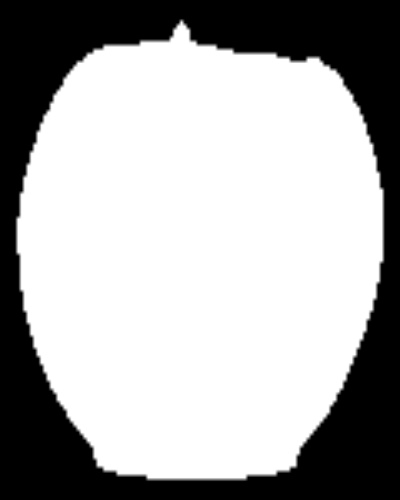
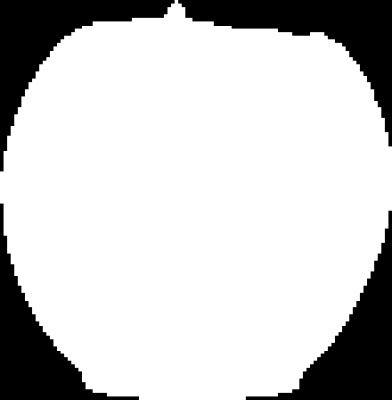
resize fixed

Changed region(s): [[0.0, 0.0, 1.0, 1.0]]

diff --git a/functions.py b/functions.py
@@ -76,15 +76,15 @@ def computeImage(imageRGB):
     else:
         final = erosing
 
-    final = cv2.resize(final, (400, 500))
+    final = resize(final)
     imageRGBbb = imageRGB[yMax:yMax + hMax, xMax:xMax + wMax]
-    imageRGBbb = cv2.resize(imageRGBbb, (400, 500))
+    imageRGBbb = resize(imageRGBbb)
 
     return final, imageRGBbb
 
 
 def resize(image):
-    scale_percent = 220  # percent of original size
+    scale_percent = 400 * 100 / image.shape[0]  # percent of original size
     width = int(image.shape[1] * scale_percent / 100)
     height = int(image.shape[0] * scale_percent / 100)
     dim = (width, height)
